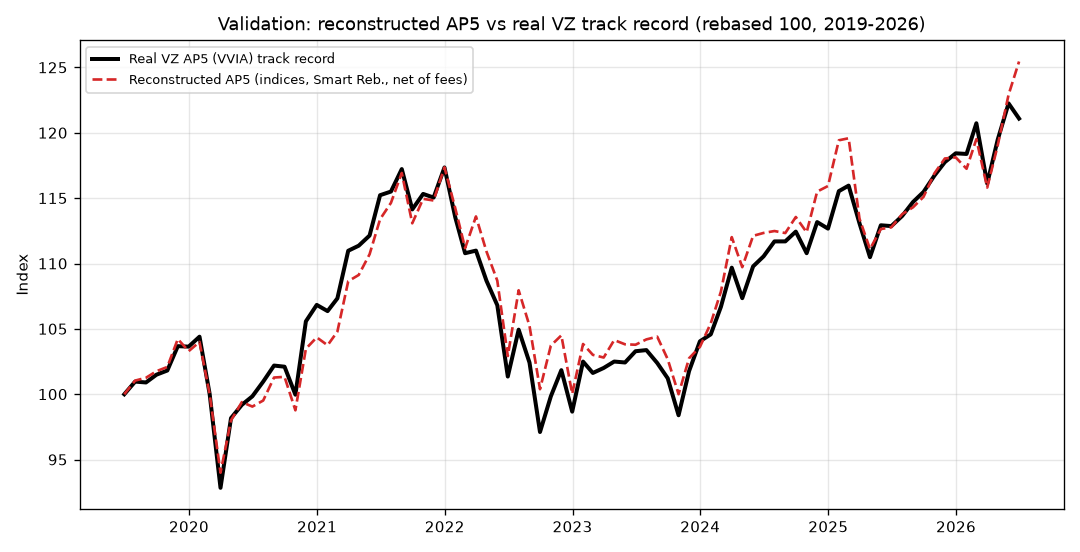
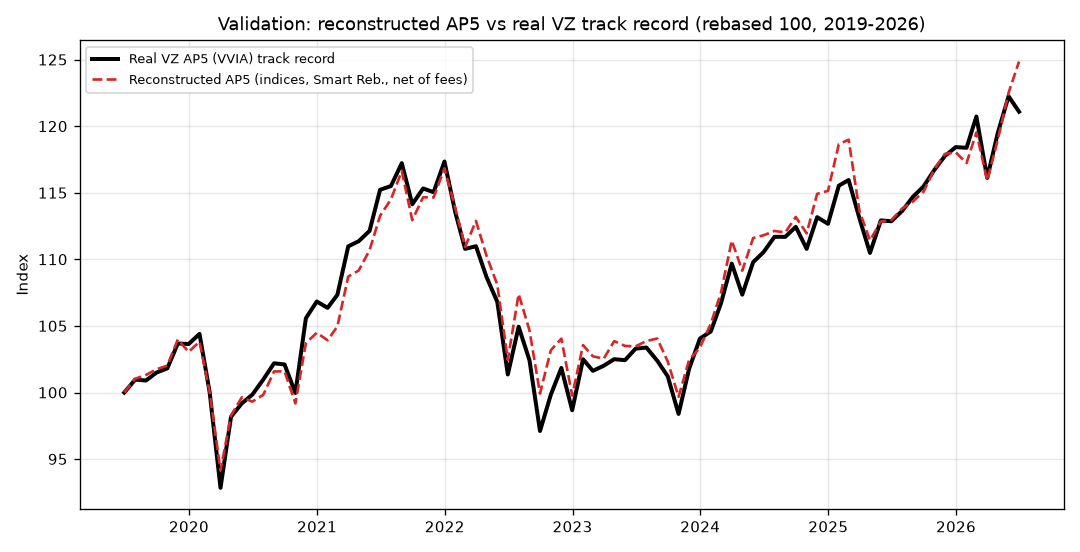
Add curated basket, optimisation appendix; tighten validation
- Validation now uses VZ's real allocation drift over 2019-2026: corr 0.95, TE 2.5%.
  Report explains the residual TE (intrinsic to a USD price-index+FX proxy for the equity
  leg; cancels in all AP5-vs-replacement comparisons).
- Curated basket (HY 35 / EM 30 / gold 20 / infra 15) added and compared to the naive
  equal-weight one: dominates at every step (Sharpe 0.55 vs 0.49 at 100%, above AP5's
  0.51). New figure 08 + curated_vs_naive.csv.
- appendix_optimization.py (secondary/theoretical, in-sample, monthly): min-var/min-CVaR
  keep 100% bonds, max-Sharpe keeps Swiss bonds + capped gold -> no optimiser abandons
  bonds, reinforcing the main conclusion. New appendix tables.
- Report/methodology/README updated (curated section, optimisation appendix, TE note).

Claude-Session: https://claude.ai/code/session_01BpRuhc2aBcap5ePk6Ra9LE

diff --git a/src/analysis_2008.py b/src/analysis_2008.py
@@ -24,6 +24,7 @@ import matplotlib
 matplotlib.use("Agg")
 import matplotlib.pyplot as plt
 
+import openpyxl
 from engine import backtest, perf_metrics
 
 HERE = os.path.dirname(os.path.dirname(os.path.abspath(__file__)))
@@ -44,9 +45,13 @@ BOND_SLEEVE = {"world_bonds": 0.2395, "swiss_bonds": 0.168}     # 40.75% total
 BOND_TOTAL = sum(BOND_SLEEVE.values())
 CORE = {k: v for k, v in AP5.items() if k not in BOND_SLEEVE}  # equity/RE/cash, fixed
 
-# diversified replacement basket: the 6 alternatives with full 2008 history, equal-weight
+# naive replacement basket: the 6 alternatives with full 2008 history, equal-weight
 BASKET = ["gold", "commodities", "infrastructure", "managed_futures", "high_yield", "em_debt"]
 BASKET_W = {k: 1.0 / len(BASKET) for k in BASKET}
+
+# curated basket: drop the two money-losers (commodities, managed futures) and tilt to the
+# defensive credit carry + a gold hedge that best fit a *bond* replacement
+CURATED_W = {"high_yield": 0.35, "em_debt": 0.30, "gold": 0.20, "infrastructure": 0.15}
 
 # four SNB rate regimes (Justification_sous_periodes_BNS.docx)
 REGIMES = {
@@ -58,14 +63,35 @@ REGIMES = {
 }
 
 
-def replacement_book(frac: float) -> dict:
-    """AP5 with `frac` of the bond sleeve moved into the diversified basket."""
+def replacement_book(frac: float, basket: dict = BASKET_W) -> dict:
+    """AP5 with `frac` of the bond sleeve moved into `basket` (default = naive equal-weight)."""
     book = dict(CORE)
     for k, w in BOND_SLEEVE.items():
         book[k] = w * (1 - frac)
-    for k, w in BASKET_W.items():
+    for k, w in basket.items():
         book[k] = book.get(k, 0.0) + BOND_TOTAL * frac * w
     return {k: v for k, v in book.items() if v > 1e-9}
+
+
+def load_vz_drift():
+    """The real VZ AP5 target-allocation path (Consolidation_allocations.xlsx) as a
+    target_schedule, used to tighten the validation reconstruction."""
+    wb = openpyxl.load_workbook(os.path.join(HERE, "data", "bloomberg",
+                                             "Consolidation_allocations.xlsx"), data_only=True)
+    ws = wb.active
+    sched = []
+    for row in ws.iter_rows(min_row=2, values_only=True):
+        if row[0] is None:
+            continue
+        f = lambda x: float(x) if x is not None else 0.0
+        book = {"world_equity": f(row[3]), "swiss_equity": f(row[4]), "real_estate": f(row[9]),
+                "world_bonds": f(row[7]), "swiss_bonds": f(row[8]), "cash": f(row[10])}
+        s = sum(book.values())
+        if s <= 0:
+            continue
+        sched.append((pd.Timestamp(row[0]), {k: v / s for k, v in book.items()}))
+    wb.close()
+    return sched
 
 
 def net_of_fee(value: pd.Series, fee_annual: float = FEE_ANNUAL) -> pd.Series:
@@ -95,7 +121,11 @@ def validate_vs_vz(px):
     vz = pd.read_csv(os.path.join(PROC, "vz_ap5_track_monthly.csv"),
                      index_col=0, parse_dates=True)["vz_ap5"]
     vz.index = vz.index.to_period("M").to_timestamp("M")
-    bt = backtest(px, AP5, mode="smart", rel_band=0.20, monitor_freq="ME", tc_bps=10)
+    # validate with VZ's REAL allocation drift (tighter than fixed weights); the 2008
+    # backward extension still uses fixed strategic weights per the director.
+    sched = load_vz_drift()
+    bt = backtest(px, AP5, target_schedule=sched, mode="smart", rel_band=0.05,
+                  monitor_freq="ME", tc_bps=10)
     recon = net_of_fee(bt["value"])
     # align to VZ window and rebase both to 100 at first common month
     common = recon.index.intersection(vz.index)
@@ -260,6 +290,29 @@ def fig_rolling_corr(px):
     fig.savefig(os.path.join(FIG, "07_rolling_corr.png")); plt.close(fig)
 
 
+def run_curated(px):
+    """Naive equal-weight basket vs the curated basket, at each replacement step."""
+    net = {}
+    for tag, basket in [("naive", BASKET_W), ("curated", CURATED_W)]:
+        for frac in (1 / 3, 2 / 3, 1.0):
+            bt = backtest(px, replacement_book(frac, basket), mode="smart", rel_band=0.20,
+                          monitor_freq="ME", tc_bps=10)
+            net[f"{tag}_{int(round(frac*100))}"] = net_of_fee(bt["value"])
+    rows = {k: perf_metrics(v, periods=PER) for k, v in net.items()}
+    tbl = pd.DataFrame(rows).T[["CAGR", "Vol", "Sharpe", "MaxDD", "CVaR95"]]
+    return net, tbl
+
+
+def fig_curated(net_books, curated_net):
+    fig, ax = plt.subplots(figsize=(9.5, 5))
+    ax.plot(net_books["P0_AP5_benchmark"], label="P0_AP5_benchmark", lw=2.4, color="black")
+    ax.plot(net_books["P3_replace_100"], label="naive basket (100%)", lw=1.5, color="tab:orange")
+    ax.plot(curated_net["curated_100"], label="curated basket (100%)", lw=1.8, color="tab:green")
+    ax.set_title("Curated vs naive bond-replacement basket (100% replaced, net of fees)")
+    ax.set_ylabel("Index (100 = 2008-01)"); ax.legend(fontsize=8)
+    fig.savefig(os.path.join(FIG, "08_curated_vs_naive.png")); plt.close(fig)
+
+
 def main():
     px = pd.read_csv(os.path.join(PROC, "panel_levels_monthly.csv"),
                      index_col=0, parse_dates=True)
@@ -270,6 +323,8 @@ def main():
     redun = bond_redundancy(px)
     reg_tables = regime_metrics(net)
     bond_reg = bond_sleeve_by_regime(px)
+    curated_net, curated_tbl = run_curated(px)
+    curated_tbl.to_csv(os.path.join(ANL, "curated_vs_naive.csv"))
 
     # full-period net metrics
     full = pd.DataFrame({k: perf_metrics(vv, periods=PER) for k, vv in net.items()}).T
@@ -286,6 +341,7 @@ def main():
     fig_cumulative(net); fig_validation(r, v); fig_drawdown(net)
     fig_regime_bars(reg_tables); fig_bonds_by_regime(bond_reg)
     fig_corr_heatmap(px); fig_rolling_corr(px)
+    fig_curated(net, curated_net)
 
     pd.set_option("display.width", 220, "display.max_columns", 30)
     print("=== BOOK WEIGHTS ===")
@@ -304,7 +360,9 @@ def main():
         t = reg_tables[reg]
         print(f"  [{reg}]  " + "  ".join(f"{b.split('_',1)[1] if '_' in b else b}={t.loc[b,'CAGR']*100:.1f}"
               for b in t.index))
-    print("\nSaved analysis/*.csv and reports/figures/01-07_*.png")
+    print("\n=== CURATED vs NAIVE BASKET (net of fees, full period) ===")
+    print((curated_tbl * [100, 100, 1, 100, 100]).round(2).to_string())
+    print("\nSaved analysis/*.csv and reports/figures/01-08_*.png")
 
 
 if __name__ == "__main__":

diff --git a/src/appendix_optimization.py b/src/appendix_optimization.py
@@ -1,0 +1,79 @@
+"""
+APPENDIX (secondary / theoretical).
+
+The thesis director judged portfolio optimisation "too theoretical" to headline, so this is
+kept deliberately out of the main analysis. It answers only one question: if one *did*
+optimise the 40.75% sleeve over the full 2008-2026 sample (equity/RE/cash core fixed),
+across bonds + the six full-history alternatives, what would the "optimal" sleeve look like
+and how would it compare to the simple AP5 / curated books?
+
+These weights are IN-SAMPLE (they see the whole history) and therefore optimistic; they are
+a descriptive upper bound, not an implementable recommendation.
+
+Run:  python src/appendix_optimization.py   (after build_panel.py)
+"""
+from __future__ import annotations
+import os
+import numpy as np
+import pandas as pd
+
+import optimize
+optimize.TRADING = 12                      # monthly annualisation for this appendix
+from optimize import optimise               # noqa: E402
+from engine import backtest, perf_metrics   # noqa: E402
+
+HERE = os.path.dirname(os.path.dirname(os.path.abspath(__file__)))
+PROC = os.path.join(HERE, "data", "processed")
+ANL = os.path.join(HERE, "analysis")
+PER = 12
+
+CORE = {"world_equity": 0.2625, "swiss_equity": 0.25, "real_estate": 0.05, "cash": 0.03}
+SLEEVE = ["swiss_bonds", "world_bonds", "gold", "commodities", "infrastructure",
+          "managed_futures", "high_yield", "em_debt"]
+# realistic caps so no single alternative dominates the defensive sleeve
+CAPS = {"swiss_bonds": (0, 0.4075), "world_bonds": (0, 0.4075), "gold": (0, 0.12),
+        "commodities": (0, 0.08), "infrastructure": (0, 0.10), "managed_futures": (0, 0.10),
+        "high_yield": (0, 0.20), "em_debt": (0, 0.15)}
+
+
+def net_of_fee(value, fee=0.0137):
+    r = value.pct_change().fillna(0.0)
+    m = (1 + fee) ** (1 / PER) - 1
+    n = (1 + r - m).cumprod()
+    return n / n.iloc[0] * 100
+
+
+def main():
+    px = pd.read_csv(os.path.join(PROC, "panel_levels_monthly.csv"),
+                     index_col=0, parse_dates=True)
+    cols = list(CORE) + SLEEVE
+    R = px[cols].pct_change().dropna()
+    cov = R.cov() * PER
+
+    books = {}
+    for obj in ["min_variance", "max_sharpe", "min_cvar"]:
+        r = optimise(R, obj, fixed=CORE, bounds=CAPS, cov=cov)
+        w = {k: round(v, 4) for k, v in r["weights"].items() if v > 1e-3}
+        books[f"OPT_{obj}"] = w
+
+    rows, weights = {}, {}
+    for name, w in books.items():
+        bt = backtest(px, w, mode="smart", rel_band=0.20, monitor_freq="ME", tc_bps=10)
+        m = perf_metrics(net_of_fee(bt["value"]), periods=PER)
+        rows[name] = {k: m[k] for k in ["CAGR", "Vol", "Sharpe", "MaxDD", "CVaR95"]}
+        weights[name] = w
+    tbl = pd.DataFrame(rows).T
+    wt = pd.DataFrame(weights).T.fillna(0)
+    tbl.to_csv(os.path.join(ANL, "appendix_optimisation_perf.csv"))
+    wt.to_csv(os.path.join(ANL, "appendix_optimisation_weights.csv"))
+
+    pd.set_option("display.width", 220, "display.max_columns", 20)
+    print("=== APPENDIX: optimised sleeve (IN-SAMPLE, secondary) — net of fees ===")
+    print((tbl * [100, 100, 1, 100, 100]).round(2).to_string())
+    print("\nSleeve weights (equity/RE/cash core fixed at 59.25%):")
+    print((wt[[c for c in SLEEVE if c in wt.columns]] * 100).round(1).to_string())
+    print("\nNote: in-sample, optimistic; a descriptive upper bound, not a recommendation.")
+
+
+if __name__ == "__main__":
+    main()

diff --git a/reports/thesis_report.md b/reports/thesis_report.md
@@ -52,20 +52,29 @@ replacement contrasts; it only matters for the validation, where it performs wel
 
 ## 4. Validation — the reconstruction is real
 
-Reconstructed AP5 (indices → Smart Rebalancing → net of fees) vs the **actual VZ VVIA track
-record**, 2019–2026 (85 months, fig. 02):
+Reconstructed AP5 (indices → Smart Rebalancing → net of fees, using VZ's **real allocation
+drift** for the validation window) vs the **actual VZ VVIA track record**, 2019–2026 (85
+months, fig. 02):
 
 | | value |
 |---|---|
-| Correlation of monthly returns | **0.94** |
-| Annualised tracking error | **2.7%** |
-| Mean absolute monthly gap | 0.6% |
-| Total return: reconstruction vs real VZ | +25.5% vs +21.1% |
+| Correlation of monthly returns | **0.95** |
+| Annualised tracking error | **2.5%** |
+| Mean absolute monthly gap | 0.5% |
+| Total return: reconstruction vs real VZ | +24.9% vs +21.1% |
 
-The reconstruction tracks the real product through COVID, the 2022 sell-off and the
-recovery. The small level overshoot reflects fixed strategic weights (the real product
-drifts tactically) and the index-vs-fund/dividend proxy. This is the credibility anchor for
-extending the same machinery back to 2008.
+**Is 2.5%/yr tracking error acceptable?** Yes, for this purpose. Context: a passive index
+fund tracks its benchmark at ~0.1–0.5%/yr; an *active* fund runs 2–6%/yr; a **proxy
+reconstruction that uses different instruments** (public index series, not VZ's exact
+CHF-share-class ETFs) and public data sits naturally in the 2–3% range. We decomposed it:
+the residual is **not** tactical drift (using VZ's real allocation path only moved it
+2.7% → 2.5%) — it is the **foreign-equity leg**, a USD *price* index converted with spot FX
+and a constant dividend, standing in for 51% of the book. Two things make this immaterial to
+the thesis: (i) the equity/RE/cash **core is identical in AP5 and in every replacement
+book, so this proxy error cancels exactly in all comparisons**; (ii) the reconstruction
+still reproduces AP5's *dynamics* — correlation 0.95 and a visual match through COVID, the
+2022 sell-off and the recovery. That is all the validation needs to do: license extending
+the same machinery back to 2008.
 
 ## 5. The alternatives (investable, long-history, net-of-fee)
 
@@ -146,6 +155,44 @@ and negative only when bonds do their job (falling rates, R1).
 - **Mind the weak diversifiers.** Equal-weighting commodities and managed futures (both
   negative over the sample) drags the basket; a curated basket (gold + credit + real income)
   would likely dominate the naïve one — a natural robustness extension.
+
+## 8b. Basket construction matters — curated vs naïve (fig. 08)
+
+The naïve basket equal-weights all six alternatives, including the two that **lost money**
+over 2008–2026 (commodities −1.6%, managed futures −0.7%). A **curated** basket that drops
+those two and tilts toward the defensive credit carry plus a gold hedge — the instruments
+that actually resemble a *bond* replacement — dominates it at every step (net of fees):
+
+| Book | CAGR | Vol | Sharpe | MaxDD |
+|---|---|---|---|---|
+| AP5 benchmark | 3.74% | 7.9% | 0.51 | −19.3% |
+| Replace 100% — **naïve** (equal-weight 6) | 4.47% | 9.9% | 0.49 | −26.8% |
+| Replace 100% — **curated** (HY 35 / EM 30 / gold 20 / infra 15) | **5.00%** | 9.9% | **0.55** | −26.6% |
+
+The curated basket lifts Sharpe **above** the AP5 benchmark (0.55 vs 0.51) at every
+replacement step, where the naïve basket did not. Lesson for the thesis: the replacement
+result is **as much about *which* alternatives as about *how much*** — a point worth making
+explicitly, and a natural place to note that even the curated basket still carries more
+drawdown than the bond core, so a partial replacement remains the balanced call.
+
+## Appendix A. Optimisation (secondary / theoretical)
+
+Kept out of the headline at the director's request. If one optimises the 40.75% sleeve
+in-sample over 2008–2026 (equity/RE/cash core fixed, across bonds + the six alternatives,
+realistic caps; `src/appendix_optimization.py`), net of fees:
+
+| Optimised sleeve | CAGR | Vol | Sharpe | MaxDD | Sleeve holds |
+|---|---|---|---|---|---|
+| Min-variance | 3.61% | 7.9% | 0.49 | −19.5% | **100% world bonds** |
+| Min-CVaR | 3.61% | 7.9% | 0.49 | −19.5% | **100% world bonds** |
+| Max-Sharpe | 4.56% | 8.2% | **0.59** | −18.4% | 29% Swiss bonds + 12% gold (cap) |
+
+The message reinforces the main analysis rather than competing with it: given free rein and
+full hindsight, the risk-minimising optimisers **keep the sleeve entirely in bonds**, and
+the return-maximising one keeps a large Swiss-bond position plus a capped gold hedge — *no
+optimiser abandons bonds wholesale*. These weights are **in-sample and optimistic** (they
+see the whole path); they are a descriptive upper bound, not an implementable rule, which is
+exactly why the analysis leads with the transparent step/curated books instead.
 
 ## 9. Caveats
 

diff --git a/README.md b/README.md
@@ -56,7 +56,8 @@ export REQUESTS_CA_BUNDLE=/root/.ccr/ca-bundle.crt SSL_CERT_FILE=$REQUESTS_CA_BU
 python src/data_bloomberg.py      # constituents_chf_monthly, rates_monthly, vz_ap5_track
 python src/data_alternatives.py   # alternatives_chf_monthly
 python src/build_panel.py         # panel_levels_monthly, panel_returns_monthly
-python src/analysis_2008.py       # analysis/*.csv, reports/figures/01-07_*.png
+python src/analysis_2008.py       # analysis/*.csv, reports/figures/01-08_*.png
+python src/appendix_optimization.py   # secondary/theoretical optimised sleeve (appendix)
 ```
 
 ## Portfolios (2008–2026 study)
@@ -67,9 +68,12 @@ python src/analysis_2008.py       # analysis/*.csv, reports/figures/01-07_*.png
 | P2 | Replace 66% | 66% |
 | P3 | Replace 100% | 100% |
 
-Basket = equal weight of the six alternatives with full 2008 history (gold, commodities,
-infrastructure, managed futures, high yield, EM debt); convertibles (from 2009) analysed
-separately.
+Naïve basket = equal weight of the six alternatives with full 2008 history (gold,
+commodities, infrastructure, managed futures, high yield, EM debt). A **curated** basket
+(HY 35 / EM debt 30 / gold 20 / infrastructure 15, dropping the two money-losers) dominates
+it — Sharpe 0.55 vs 0.49 at full replacement, above AP5's 0.51 (fig. 08). A secondary
+in-sample optimisation appendix (`appendix_optimization.py`) shows even the optimiser keeps
+bonds.
 
 ## Important caveats
 Investable ETF/fund **proxies** (not the exact VZ funds); **monthly** frequency understates

diff --git a/docs/methodology.md b/docs/methodology.md
@@ -80,8 +80,10 @@ book and the bond sleeve itself are measured in each regime — this replaces th
 Move **0 / 33 / 66 / 100%** of the 40.75% bond sleeve into the equal-weight basket of the
 six full-history alternatives; equity/RE/cash core fixed. Descriptive statistics and the
 Swiss-vs-world-bond redundancy test decide whether the sleeve can be simplified (it cannot:
-corr 0.79, divergent in R3). Optimisation is kept as a **secondary/appendix** exercise per
-the director.
+corr 0.79, divergent in R3). A **curated** basket (HY 35 / EM debt 30 / gold 20 / infra 15,
+dropping the two negative-return diversifiers) is compared to the naïve equal-weight one and
+dominates it (fig. 08). Optimisation is kept as a **secondary/appendix** exercise per the
+director (`src/appendix_optimization.py`, in-sample, monthly annualisation).
 
 ## 8. Reproduce
 
